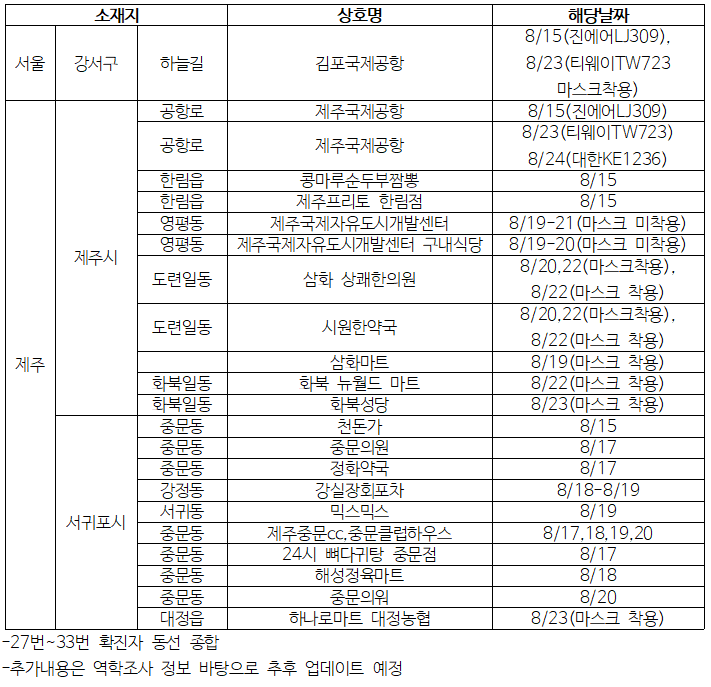
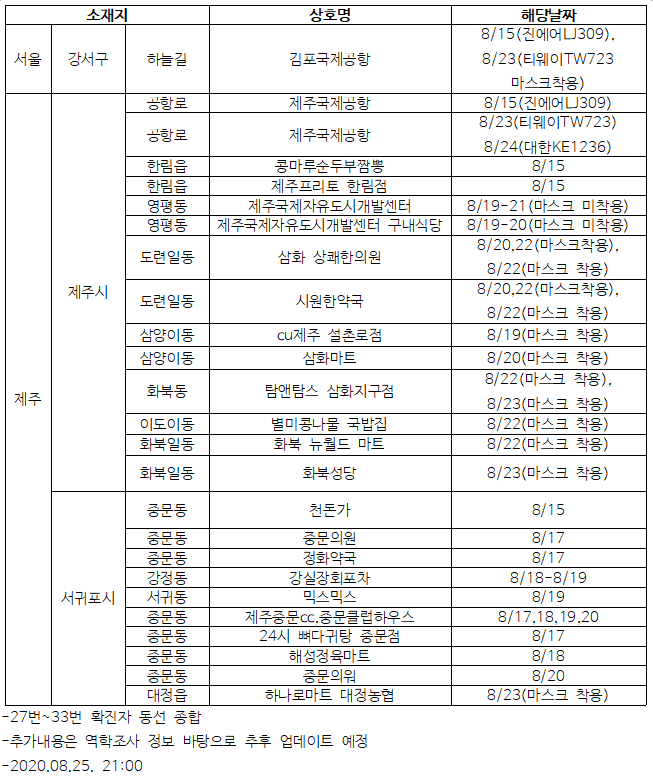
update

Changed region(s): [[0.0, 0.0, 1.0, 1.0], [0.0, 0.4891, 0.0919, 0.5502], [0.0613, 0.5808, 0.0919, 0.6419]]

diff --git a/maps.html b/maps.html
@@ -136,6 +136,14 @@
           content: "<div>대정 하나로마트</div>",
           latlng: new kakao.maps.LatLng(33.2339899, 126.2618892),
         },
+        {
+          content: "<div>CU 제주 설촌로점</div>",
+          latlng: new kakao.maps.LatLng(33.5246682, 126.5807101),
+        },
+        {
+          content: "<div>탐앤탐스 삼화지구점</div>",
+          latlng: new kakao.maps.LatLng(33.5160514, 126.5782),
+        },
       ];
 
       for (var i = 0; i < positions.length; i++) {
